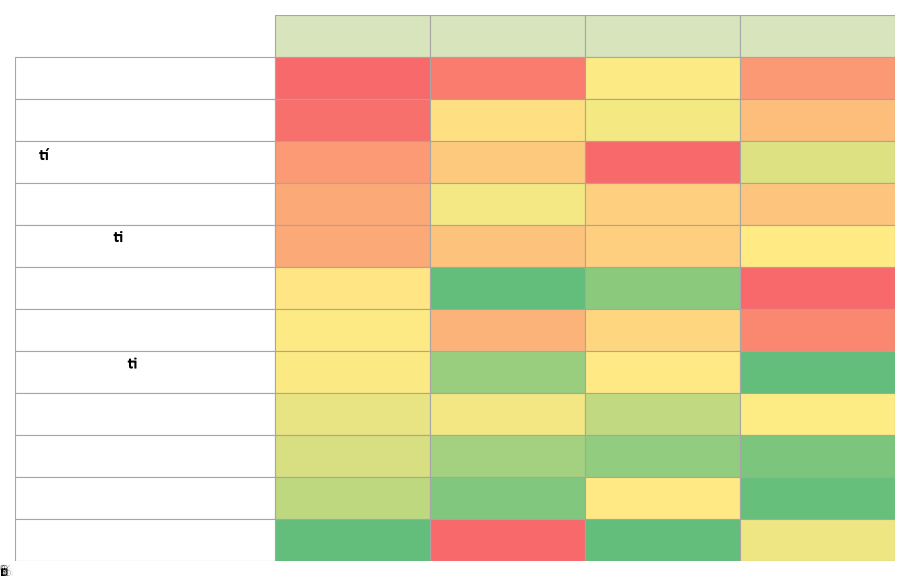
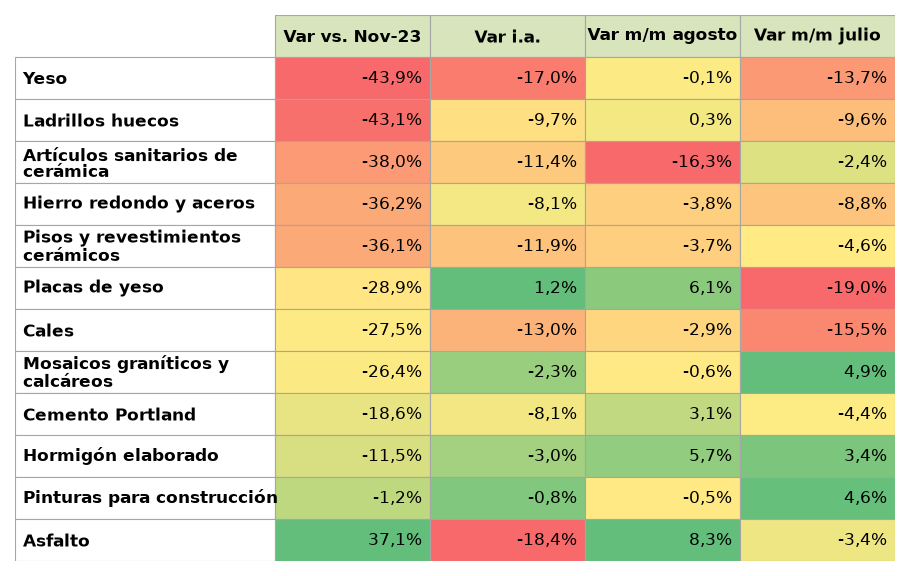
Actualizacion lun 19/10/2026 20:09

diff --git a/index.html b/index.html
@@ -87,6 +87,13 @@ main{display:flex;flex-direction:column;gap:32px}
 .chart .lienzo{background:#fff;border-radius:4px;padding:6px}
 .chart img{display:block;width:100%;height:auto}
 .chart small{color:var(--muted);font-size:12px}
+.tabla-wrap{overflow-x:auto;background:#fff;border-radius:4px}
+.tabla{border-collapse:collapse;width:100%;min-width:520px;font-size:14px;color:#000;font-variant-numeric:tabular-nums}
+.tabla th,.tabla td{border:1px solid #a6a6a6;padding:6px 8px}
+.tabla thead th{background:#d8e4bc;font-weight:700;text-align:center}
+.tabla thead th:first-child{background:#fff;border:none}
+.tabla td{text-align:right}
+.tabla td:first-child{text-align:left;font-weight:700;background:#fff}
 </style>
 
 <div class="wrap">
@@ -162,7 +169,7 @@ function render(){
     const arr=ITEMS.filter(d=>d.sector===cur).sort((a,b)=>(a.orden??99)-(b.orden??99)||String(a.nombre).localeCompare(b.nombre)||String(a.tipo).localeCompare(b.tipo));
     const gr={};arr.forEach(d=>(gr[d.grupo||cur]??=[]).push(d));
     const gs=GRAFS.filter(g=>g.sector===cur);
-    html=gs.length?`<div class="charts">${gs.map(g=>`<figure class="chart"><figcaption>${esc(g.titulo)}</figcaption><div class="lienzo"><a href="graficos/${esc(g.archivo)}" target="_blank" rel="noopener"><img src="graficos/${esc(g.archivo)}?v=${esc(g.version)}" alt="${esc(g.titulo)}" loading="lazy"></a></div><small>${esc(g.nota||'')}</small></figure>`).join('')}</div>`
+    html=gs.length?`<div class="charts">${gs.map(g=>g.tabla?`<figure class="chart"><figcaption>${esc(g.titulo)}</figcaption><div class="tabla-wrap"><table class="tabla"><thead><tr><th></th>${g.tabla.columnas.map(c=>`<th>${esc(c)}</th>`).join('')}</tr></thead><tbody>${g.tabla.filas.map(f=>`<tr><td>${esc(f.nombre)}</td>${f.valores.map((v,i)=>`<td style="background:${esc(f.colores[i])}">${esc(v)}</td>`).join('')}</tr>`).join('')}</tbody></table></div><small>${esc(g.nota||'')}</small></figure>`:`<figure class="chart"><figcaption>${esc(g.titulo)}</figcaption><div class="lienzo"><a href="graficos/${esc(g.archivo)}" target="_blank" rel="noopener"><img src="graficos/${esc(g.archivo)}?v=${esc(g.version)}" alt="${esc(g.titulo)}" loading="lazy"></a></div><small>${esc(g.nota||'')}</small></figure>`).join('')}</div>`
       :`<div class="empty"><strong>${esc(cur)}</strong>Todavía no hay gráficos en esta sección.</div>`;
   }
   root.innerHTML=html;
